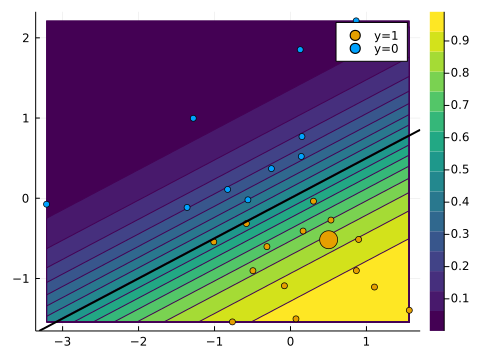
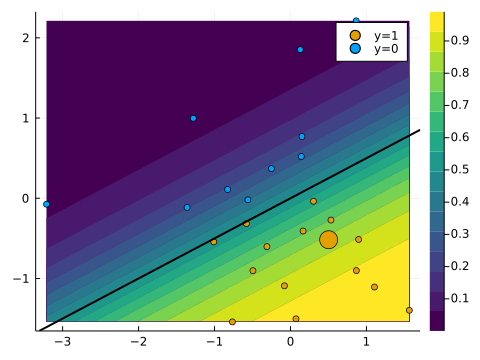
small update to loss.md

diff --git a/docs/src/tutorials/loss.md b/docs/src/tutorials/loss.md
@@ -8,12 +8,15 @@ This is a short tutorial on loss functions and gradients typically involved in c
 
 
 ```julia
-using Zygote
-using Plots
-using PlotThemes
+using Zygote, Plots, PlotThemes, LinearAlgebra
 theme(:wong)
-using LinearAlgebra
+using Logging
+disable_logging(Logging.Info)
 ```
+
+
+    LogLevel(1)
+
 
 ## General setup
 
@@ -276,7 +279,7 @@ function plot_data(;clegend=true,title="",size=1.2.*(400,300))
     y_range = collect(range(minimum(X[2,:]),stop=maximum(X[2,:]),length=50))
     Z = [Flux.σ.(w * [x,y] .+ b)[1] for x=x_range, y=y_range]
     plt = contourf(
-        x_range, y_range, Z', color=:viridis, legend=clegend, title=title, size=size
+        x_range, y_range, Z', legend=clegend, title=title, size=size, lw=0.1
     )
     scatter!(plt, X[1,reshape(y.==1,25)],X[2,reshape(y.==1,25)],label="y=1",color=1) # features
     scatter!(plt, X[1,reshape(y.==0,25)],X[2,reshape(y.==0,25)],label="y=0",color=0) # features
@@ -301,15 +304,11 @@ using AlgorithmicRecourse
 using AlgorithmicRecourse.Models: LogisticModel
 𝑴 = LogisticModel(w, [b]);
 target = ifelse(y̅==1.0,0.0,1.0)
-γ = ifelse(target==1.0,0.75,0.25);
+γ = 0.75
 ```
 
-    [33m[1m┌ [22m[39m[33m[1mWarning: [22m[39mPackage AlgorithmicRecourse does not have Random in its dependencies:
-    [33m[1m│ [22m[39m- If you have AlgorithmicRecourse checked out for development and have
-    [33m[1m│ [22m[39m  added Random as a dependency but haven't updated your primary
-    [33m[1m│ [22m[39m  environment's manifest file, try `Pkg.resolve()`.
-    [33m[1m│ [22m[39m- Otherwise you may need to report an issue with AlgorithmicRecourse
-    [33m[1m└ [22m[39mLoading Random into AlgorithmicRecourse from project dependency, future warnings for AlgorithmicRecourse are suppressed.
+
+    0.75
 
 
 Now we instantiate different generators for our different loss functions and different choices of $\lambda$. Finally we generate recourse for each of them:
@@ -354,10 +353,5 @@ anim = @animate for i in 1:max_path_length
 end
 gif(anim, "www/loss_paths.gif", fps=5);
 ```
-
-    ┌ Info: Saved animation to 
-    │   fn = /Users/FA31DU/Documents/code/AlgorithmicRecourse.jl/docs/src/tutorials/www/loss_paths.gif
-    └ @ Plots /Users/FA31DU/.julia/packages/Plots/LI4FE/src/animation.jl:114
-
 
 ![](www/loss_paths.gif)
